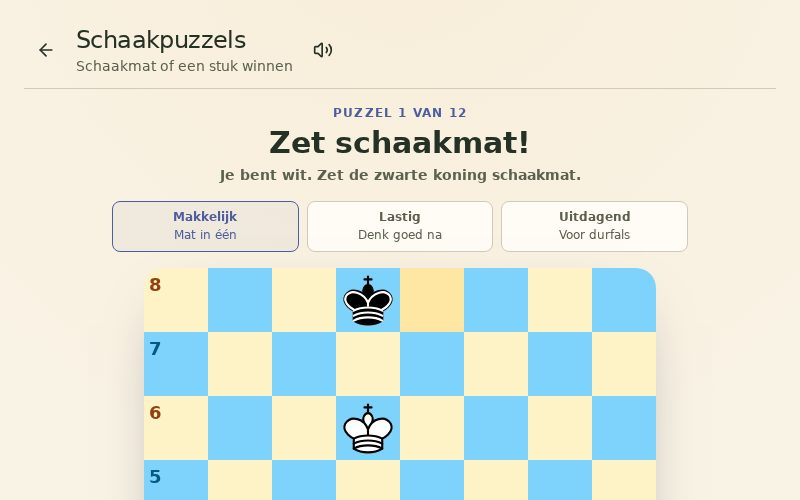
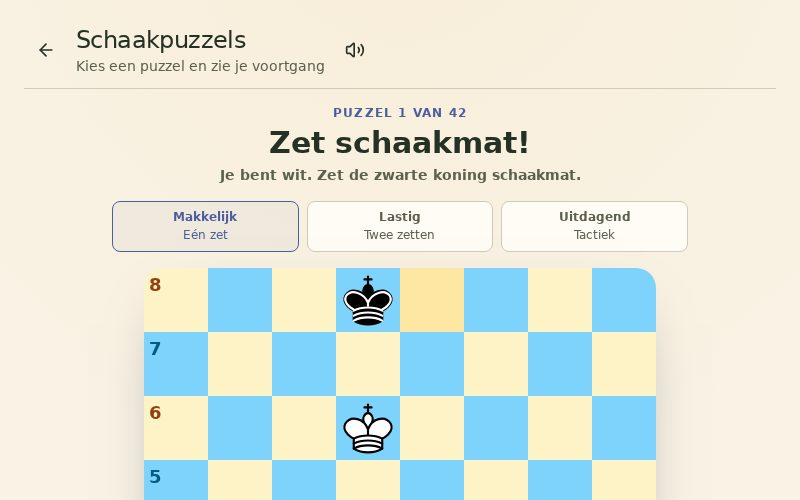
fix(features): align chess puzzles with the design system
Use the shared tokens for difficulty pickers, progress and puzzle overview; refresh the thumbnail.

diff --git a/libs/features/chess-puzzles/ui/PuzzleOverview.tsx b/libs/features/chess-puzzles/ui/PuzzleOverview.tsx
@@ -28,10 +28,10 @@ export function PuzzleOverview({
   return (
     <section aria-labelledby={titleId} className="mx-auto flex w-full max-w-xl flex-col gap-4">
       <header className="space-y-1 text-center">
-        <h2 id={titleId} className="text-2xl font-black text-slate-900">
+        <h2 id={titleId} className="font-display text-2xl">
           Kies een puzzel
         </h2>
-        <p className="text-sm font-semibold text-slate-600">
+        <p className="text-sm font-semibold text-muted-foreground">
           {solvedCount} van {puzzles.length} opgelost
         </p>
       </header>
@@ -44,11 +44,11 @@ export function PuzzleOverview({
         aria-valuemin={0}
         aria-valuenow={solvedCount}
         aria-valuetext={`${solvedCount} van ${puzzles.length} opgelost`}
-        className="h-2 overflow-hidden rounded-full bg-slate-200"
+        className="h-2 overflow-hidden rounded-full bg-muted"
         role="progressbar"
       >
         <div
-          className="h-full rounded-full bg-emerald-500 transition-all"
+          className="h-full rounded-full bg-success transition-all"
           style={{ width: `${progress}%` }}
         />
       </div>
@@ -75,10 +75,10 @@ export function PuzzleOverview({
               type="button"
               aria-label={`Puzzel ${index + 1}${done ? ", opgelost" : ", nog niet opgelost"}`}
               className={cn(
-                "relative flex min-h-12 items-center justify-center rounded-xl border-2 text-sm font-black transition-colors focus-visible:outline-none focus-visible:ring-4 focus-visible:ring-teal-300",
+                "relative flex min-h-12 items-center justify-center rounded-lg border text-sm font-black transition-colors focus-visible:outline-none focus-visible:ring-4 focus-visible:ring-primary/25",
                 done
-                  ? "border-emerald-300 bg-emerald-50 text-emerald-900"
-                  : "border-slate-200 bg-white text-slate-700 hover:bg-slate-50",
+                  ? "border-success/40 bg-success/10 text-success"
+                  : "border-border bg-card text-foreground hover:bg-muted/60",
               )}
               onClick={() => onSelect(puzzle.id)}
             >
@@ -86,7 +86,7 @@ export function PuzzleOverview({
               {done ? (
                 <Check
                   aria-hidden="true"
-                  className="absolute right-1 top-1 size-3.5 text-emerald-600"
+                  className="absolute right-1 top-1 size-3.5 text-success"
                 />
               ) : null}
             </button>

diff --git a/libs/features/chess-puzzles/ui/PuzzleDifficultyPicker.tsx b/libs/features/chess-puzzles/ui/PuzzleDifficultyPicker.tsx
@@ -18,10 +18,10 @@ export function PuzzleDifficultyPicker({ current, onSelect }: PuzzleDifficultyPi
             type="button"
             aria-pressed={active}
             className={cn(
-              "min-h-11 rounded-xl border-2 px-2 py-2 text-xs font-bold leading-tight transition-colors focus-visible:outline-none focus-visible:ring-4 focus-visible:ring-teal-300",
+              "min-h-11 rounded-lg border px-2 py-2 text-xs font-bold leading-tight transition-colors focus-visible:outline-none focus-visible:ring-4 focus-visible:ring-primary/25",
               active
-                ? "border-teal-500 bg-teal-100 text-teal-950"
-                : "border-slate-200 bg-white text-slate-600 hover:bg-slate-50",
+                ? "border-primary bg-primary/5 text-primary"
+                : "border-border bg-card text-muted-foreground hover:bg-muted/60",
             )}
             onClick={() => onSelect(option.id)}
           >
@@ -29,7 +29,7 @@ export function PuzzleDifficultyPicker({ current, onSelect }: PuzzleDifficultyPi
             <span
               className={cn(
                 "mt-0.5 block text-xs font-medium",
-                active ? "text-teal-800" : "text-slate-500",
+                active ? "text-primary" : "text-muted-foreground",
               )}
             >
               {option.hint}

diff --git a/libs/features/chess-puzzles/ui/PuzzlePlay.tsx b/libs/features/chess-puzzles/ui/PuzzlePlay.tsx
@@ -72,7 +72,7 @@ function PuzzleHeader({ index, playerColor, puzzle, titleId, total }: PuzzleHead
   );
 }
 
-({ options }: { readonly options: ChessboardOptions }) {
+function BoardPanel({ options }: { readonly options: ChessboardOptions }) {
   return (
     <div
       aria-label="Schaakbord met coördinaten a tot en met h en 1 tot en met 8. Sleep een stuk of tik erop."
